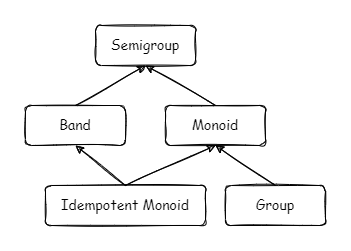
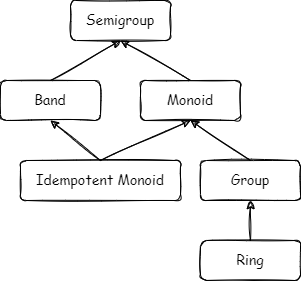
Add "Structure and Interpretation of Computer Programs" book

Changed region(s): [[0.0, 0.0, 1.0, 1.0], [0.1794, 0.7809, 0.5382, 0.8645], [0.7475, 0.6135, 0.897, 0.6693]]

diff --git a/docs/extra/one_star.md b/docs/extra/one_star.md
@@ -48,6 +48,8 @@
 | [Functional Programming in Scala - 2 Functional Program Design in Scala](https://www.coursera.org/learn/scala-functional-program-design)             | Scala 3 |  En  | 2021 |                                                                              |
 | [Functional Programming in Scala - 3 Параллельное программирование](https://www.coursera.org/learn/scala-parallel-programming)                       | Scala 3 |  En  | 2021 |                                                                              |
 | [Scala & Functional Programming Essentials - Rock the JVM](https://rockthejvm.com/p/scala)                                                           | Scala 3 |  En  | 2022 | [Udemy link](https://www.udemy.com/course/rock-the-jvm-scala-for-beginners/) |
+| [Scala at Light Speed - Rock the JVM](https://rockthejvm.com/p/scala-at-light-speed)                                                                 | Scala 3 |  En  | 2023 |                                                                              |
+| [Scala 3 & Functional Programming Essentials - Rock the JVM](https://rockthejvm.com/p/scala)                                                         | Scala 3 |  En  | 2023 |                                                                              |
 | [Введение в Scala](https://stepik.org/course/16243/promo)                                                                                            | Scala 2 |  Ру  | 2019 |                                                                              |
 | [Основы Scala](https://stepik.org/course/89974/promo)                                                                                                | Scala 2 |  Ру  | 2021 |                                                                              |
 | [Scala Tutorial](https://stepik.org/course/55498/promo)                                                                                              | Scala 2 |  En  | 2021 |                                                                              |
@@ -65,6 +67,7 @@
 
 | Название                                                                                                                         | Версия  | Язык | Дата | Комментарий                 |
 |----------------------------------------------------------------------------------------------------------------------------------|:-------:|:----:|------|-----------------------------|
+| [A Comprehensive Guide to Choosing the Best Scala Course - Rock the JVM](https://blog.rockthejvm.com/best-scala-courses/)        | Scala 3 |  En  | 2023 | Выбор курсов в Scala        |
 | [Build your vocabulary with Scala affixes](https://rossabaker.com/blog/scala-affixes)                                            | Scala 3 |  En  | 2023 | Префиксы и суффиксы в Scala |
 | [Exploring Scala CLI — the new scala runner](https://medium.com/virtuslab/exploring-scala-cli-the-new-scala-runner-4b958245c2e0) | Scala 3 |  En  | 2023 |                             |
 | [On Scala, Functional Programming and Type-Classes](https://alexn.org/blog/2012/11/02/scala-functional-programming-type-classes) | Scala 2 |  En  | 2012 |                             |

diff --git a/docs/typeclass/monoid/group.md b/docs/typeclass/monoid/group.md
@@ -5,7 +5,12 @@
 Таким образом, **G** — категория с одним объектом, в которой каждая стрелка — изоморфизм.
 
 Группа, помимо законов моноида, должна удовлетворять закону:
-- **g * g^(−1) == G.empty**
+
+- _Обратимость_: для каждого **g ∈ G** существует **g^(−1)** такой, что **g * g^(−1) == g^(−1) * g == G.empty**
+
+Более того, это абелева группа, если она удовлетворяет свойству:
+
+- _Коммутативность_: **x * y = y * x** для всех **x** и **y ∈ G**.
 
 ## Описание 
 
@@ -26,6 +31,28 @@ given Group[Int] with
   extension (a: Int) override def inverse: Int = -a
 ```
 
+- Целые числа **Z** являются абелевой группой по сложению
+- Натуральные числа не являются группой при сложении (данное число **x** в **N**, но **-x** не находится в **N**).
+- Ни целые числа, ни натуральные числа не являются группой по умножению, 
+  но множество ненулевых рациональных чисел (**n/d** для любого **n, d ∈ N, n ≠ 0, d ≠ 0**) 
+  является (абелевой) группой по умножению с единичным элементом **1**.
+
+В примере ниже, конечно же числитель и знаменатель надо сокращать на НОД и "нормализовывать" знак
+с проверкой на **n ≠ 0, d ≠ 0**,
+но в упрощенном варианте группа для рациональных чисел будет выглядеть так:
+
+```scala
+final case class Rational(n: Int, d: Int):
+  def *(that: Rational): Rational =
+    Rational(n * that.n, d * that.d)
+
+given Group[Rational] with
+  override val empty: Rational                             = Rational(1, 1)
+  override def combine(x: Rational, y: Rational): Rational = x * y
+  extension (a: Rational) override def inverse: Rational   = Rational(a.d, a.n)
+
+```
+
 ## Реализация
 
 ### Реализация в Cats
@@ -42,4 +69,5 @@ assert((1 |+| 1.inverse()) === Monoid[Int].empty)
 
 **Ссылки:**
 
+- [Algebird](https://twitter.github.io/algebird/typeclasses/group.html)
 - [Herding Cats](http://eed3si9n.com/herding-cats/Grp.html)

diff --git a/docs/typeclass/monoid/ring.md b/docs/typeclass/monoid/ring.md
@@ -1,0 +1,21 @@
+# Ring
+
+В то время как [группа](group.md) определяется множеством и одной операцией, 
+кольцо определяется множеством и двумя операциями. 
+Учитывая множество `R` и операции `+` и `*`, 
+мы говорим, что `(R, +, *)` - это кольцо, если оно удовлетворяет следующим свойствам:
+
+- `(R, +)` является [абелевой группой](group.md)
+- Для любых `x` и `y ∈ R`: `x * y ∈ R`.
+- Для любых `x`, `y` и `z ∈ R`: `(x * y) * z = x * (y * z)`.
+- Для любых `x`, `y` и `z ∈ R`: `x * (y + z) = x * y + x * z` и `(x + y) * z = x * z + y * z`.
+
+## Описание
+
+## Примеры
+
+---
+
+**Ссылки:**
+
+- [Algebird](https://twitter.github.io/algebird/typeclasses/ring.html)
